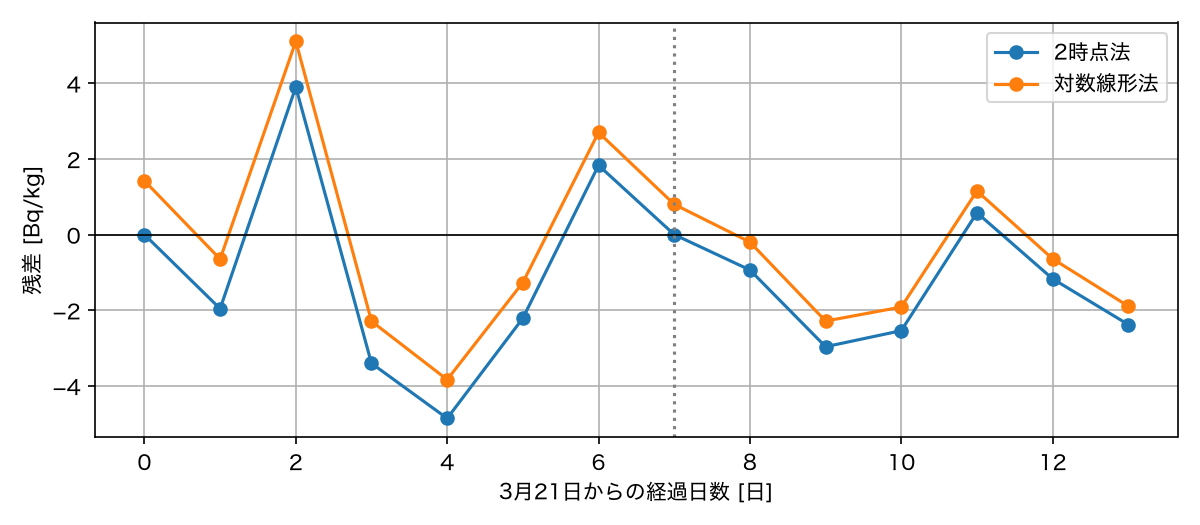
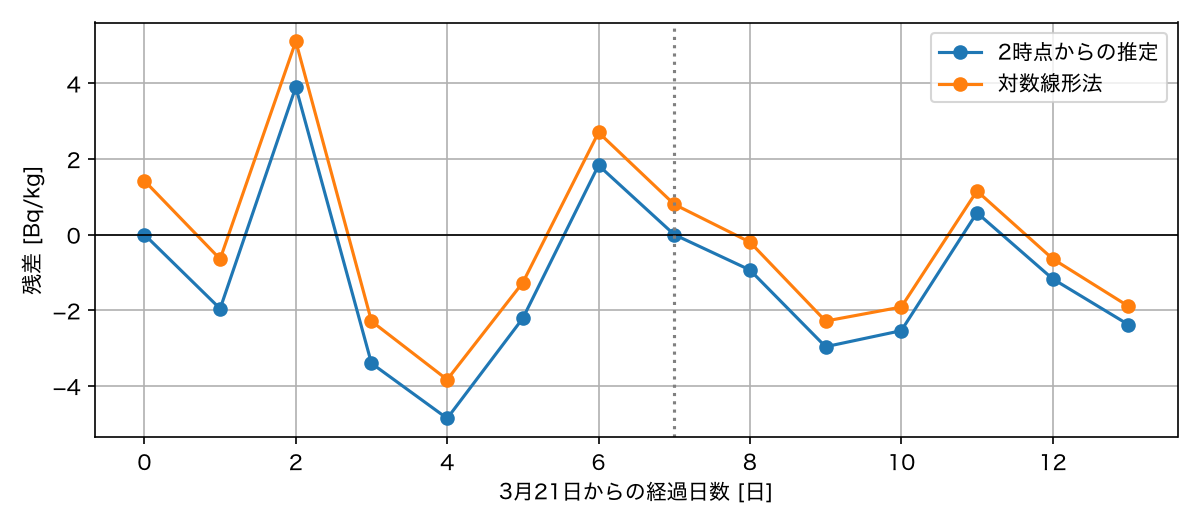
update fig

Changed region(s): [[0.7708, 0.061, 0.9867, 0.2133]]

diff --git a/contents/5_parameter_sweep.md b/contents/5_parameter_sweep.md
@@ -227,7 +227,7 @@ print(f"格子点の数: {len(r_grid)}")
 print(f"最小の J = {J_r[i_best]:.0f} （万人）^2 at r = {r_grid[i_best]:.4f} /年")
 ```
 
-第3回の2時点法（$r = 0.01234$）や対数線形法（$r = 0.01244$）と近い値が得られる．
+第3回の2時点からの推定（$r = 0.01234$）や対数線形法（$r = 0.01244$）と近い値が得られる．
 対数線形法は観測値と予測値の対数の差の二乗和を最小にしていたのに対し，ここでは観測人口と予測人口の差の二乗和を最小にしているので，完全には一致しない．
 何を目的関数にするかで最良のパラメタは少し変わる．
 
